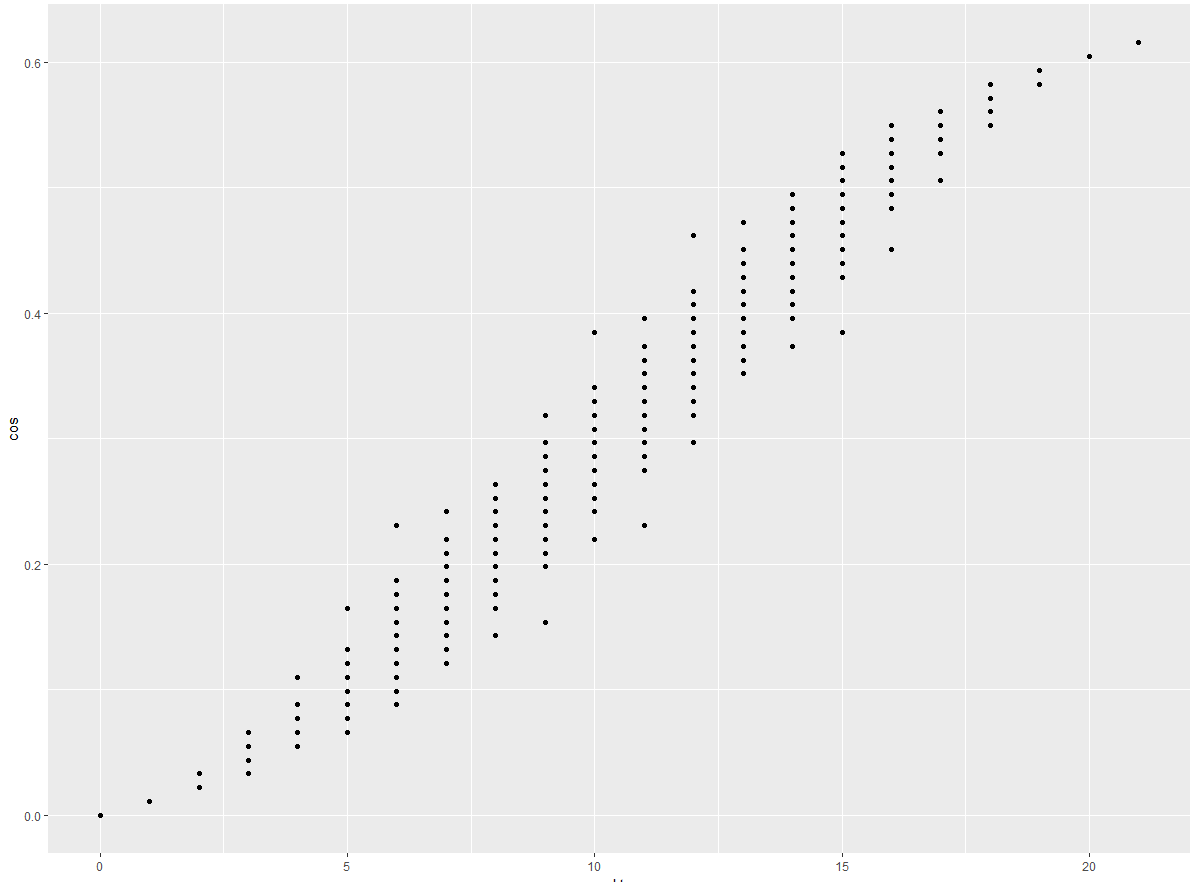
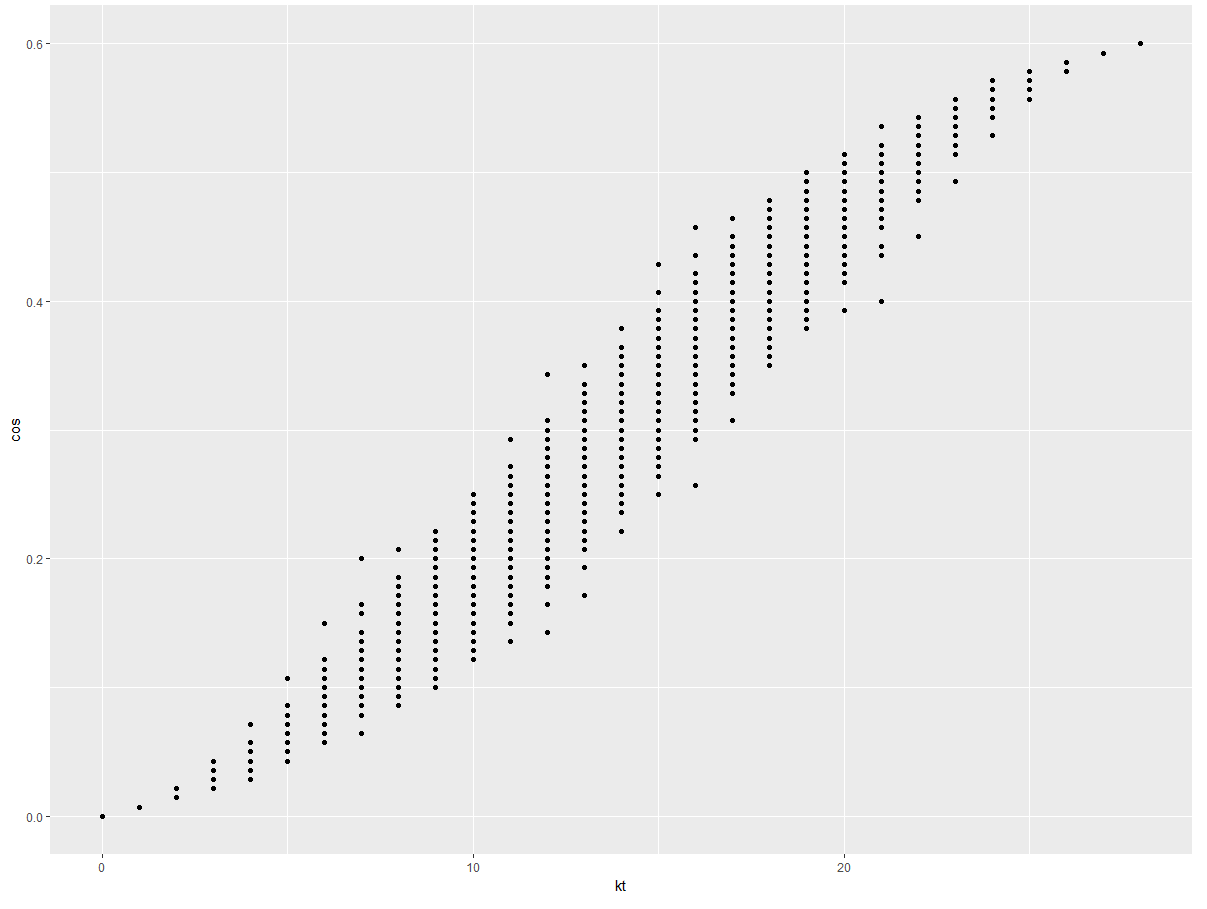
added one more layer to cosine analysis

diff --git a/CosineDistance.py b/CosineDistance.py
@@ -16,7 +16,7 @@ def cosDistance(a, b):
     numer = np.dot(a, b)
     return 1 - (numer / denom)
 
-a = np.arange(7)
+a = np.arange(8)
 
 perm = list(permutations(a))
 print(len(perm))
